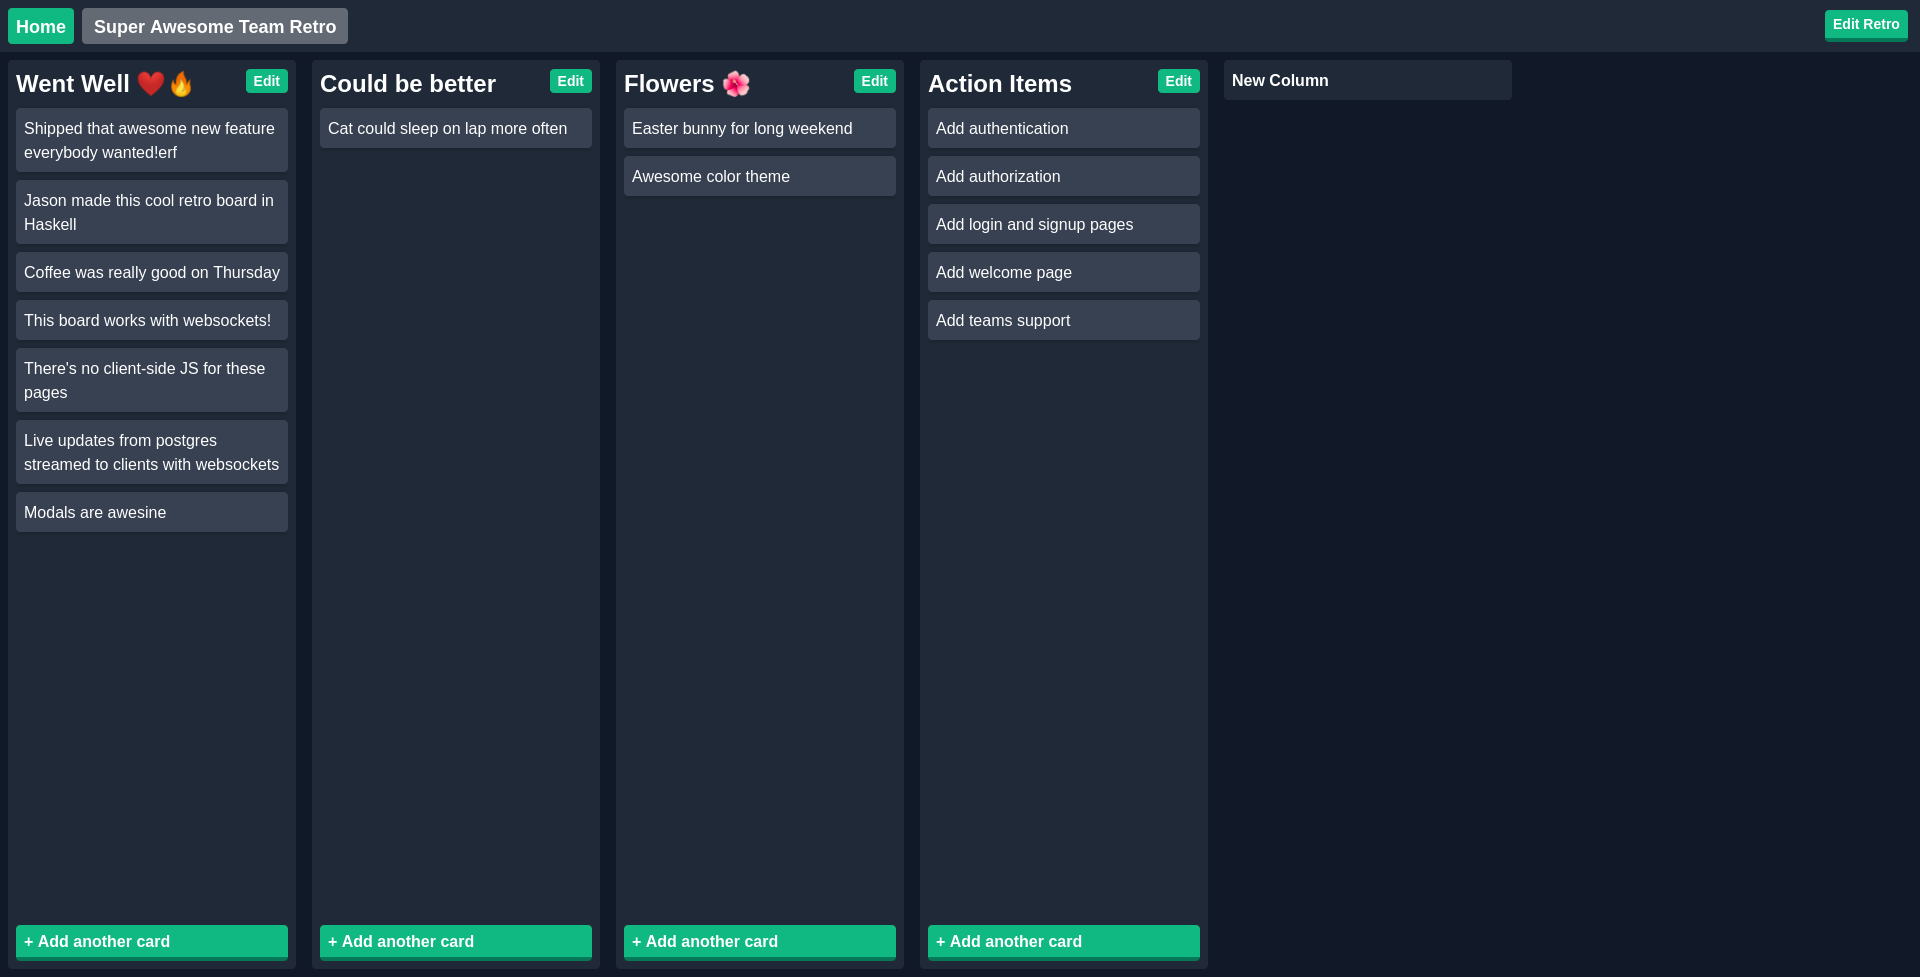
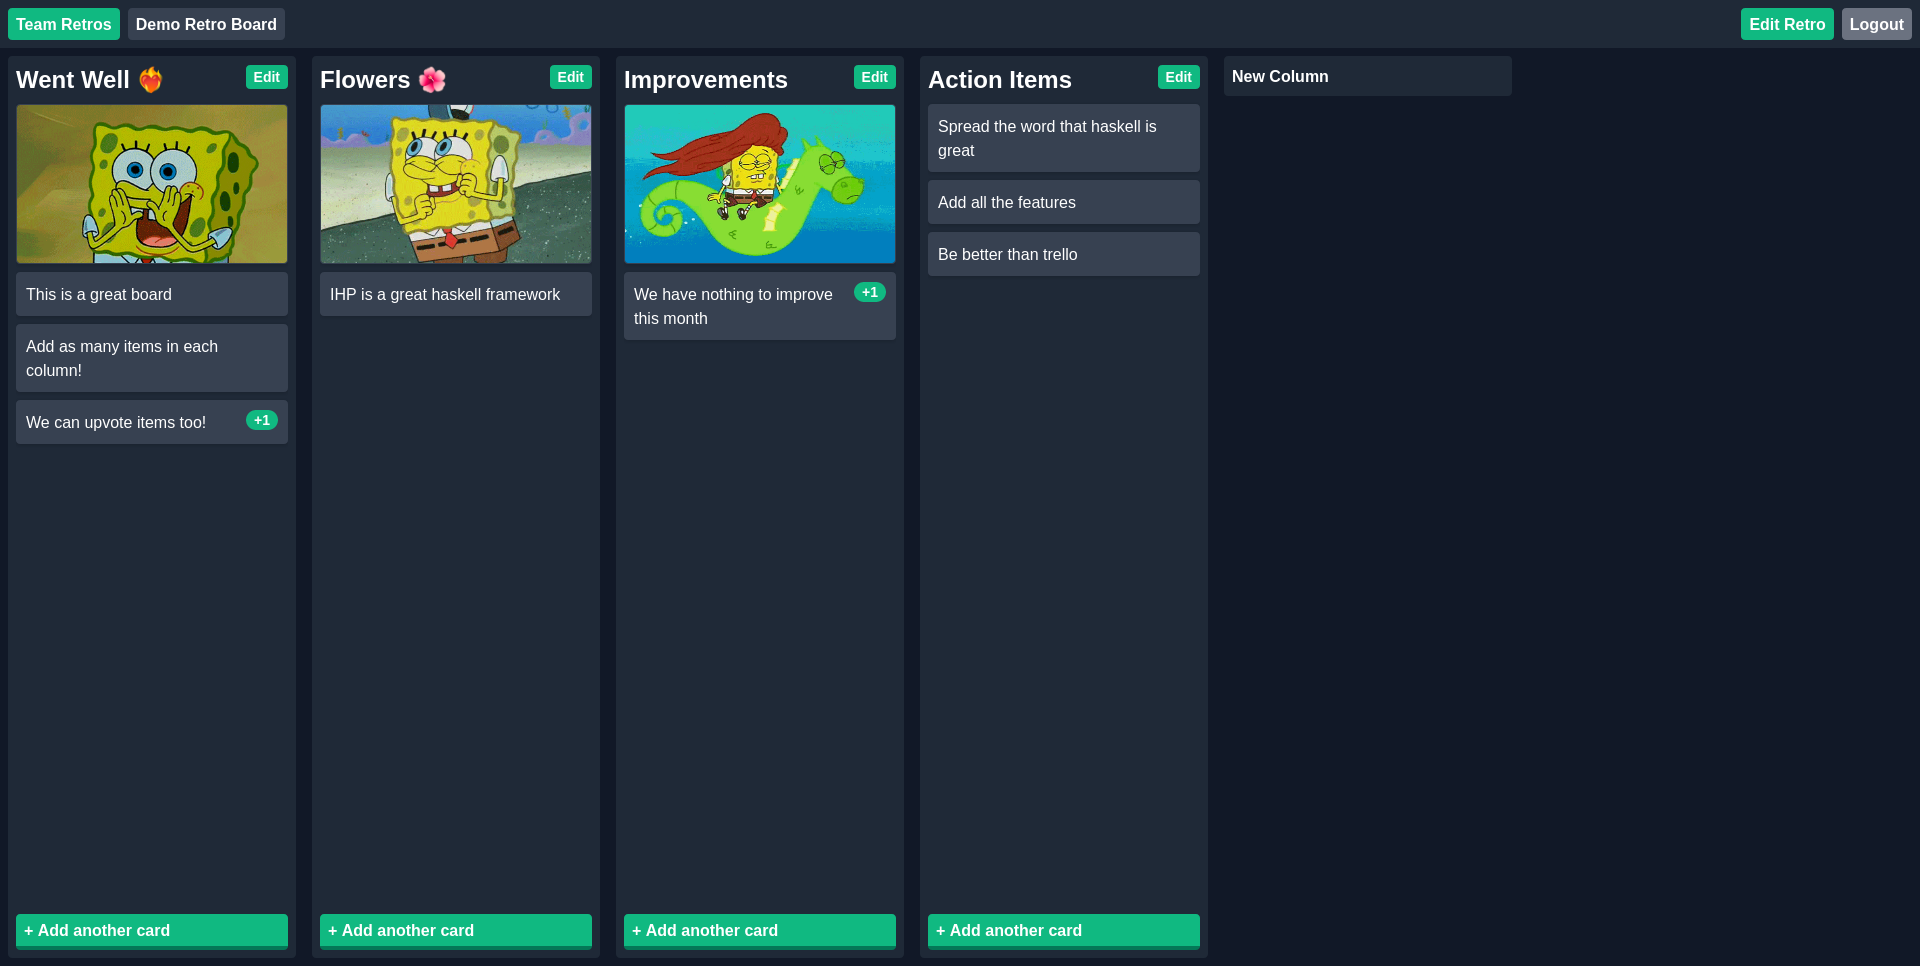
Update readme and screenshot

Changed region(s): [[0.0, 0.0, 0.6875, 0.559], [0.9062, 0.0, 1.0, 0.0621]]

diff --git a/README.md b/README.md
@@ -2,19 +2,26 @@
 
 A Haskell based web app for conducting team retrospectives.
 
-Features:
+App Features:
+- Authentication
+- Multi teams support - Create teams, add users to your team, add retro boards to your team.
+- Drag-n-drop items between columns
+- Add comments to items
+- Upvote items
+- Easily move columns to other retro boards
+- Column header cover images
+
+Tech Features:
 
 - All pages auto refresh data connected directly to Postgres through WebSockets
 - Super fast page transitions with [TurboLinks](https://github.com/turbolinks/turbolinks)
 - Incremental DOM patching with [MorphDOM](https://github.com/patrick-steele-idem/morphdom)
 - Completely written in [Haskell](https://www.haskell.org/)
 - Styled with [Tailwind](https://tailwindcss.com/)
-- Authentication
-- Multi Teams
 
 ![app screenshot](./screenshot.png)
 
-Made with :heart: and [IHP](https://github.com/digitallyinduced/ihp).
+Made with :heart:, haskell, and [IHP](https://github.com/digitallyinduced/ihp).
 
 ### Development
 
